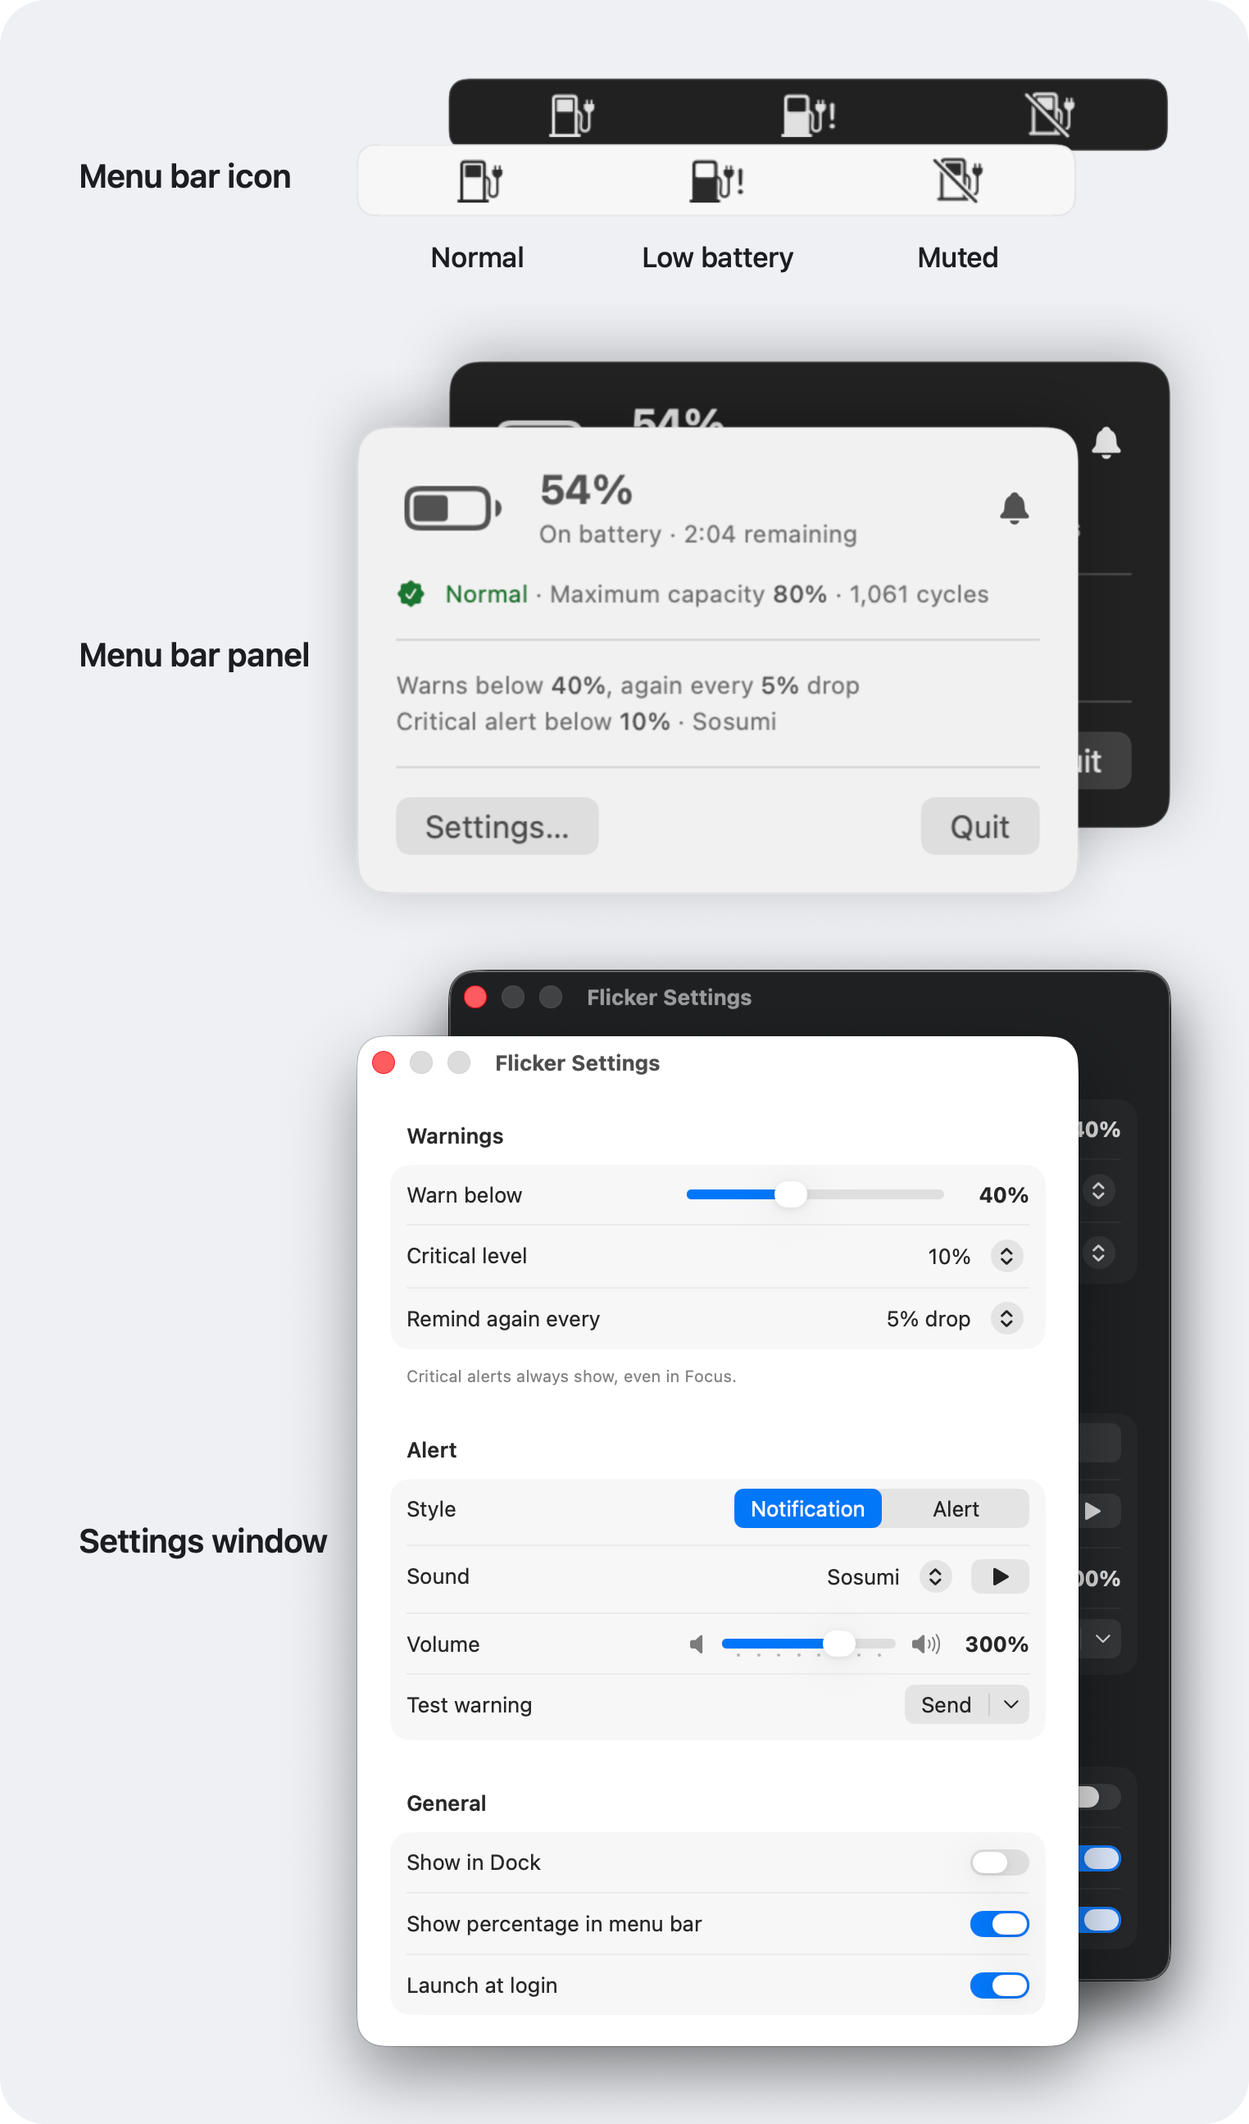
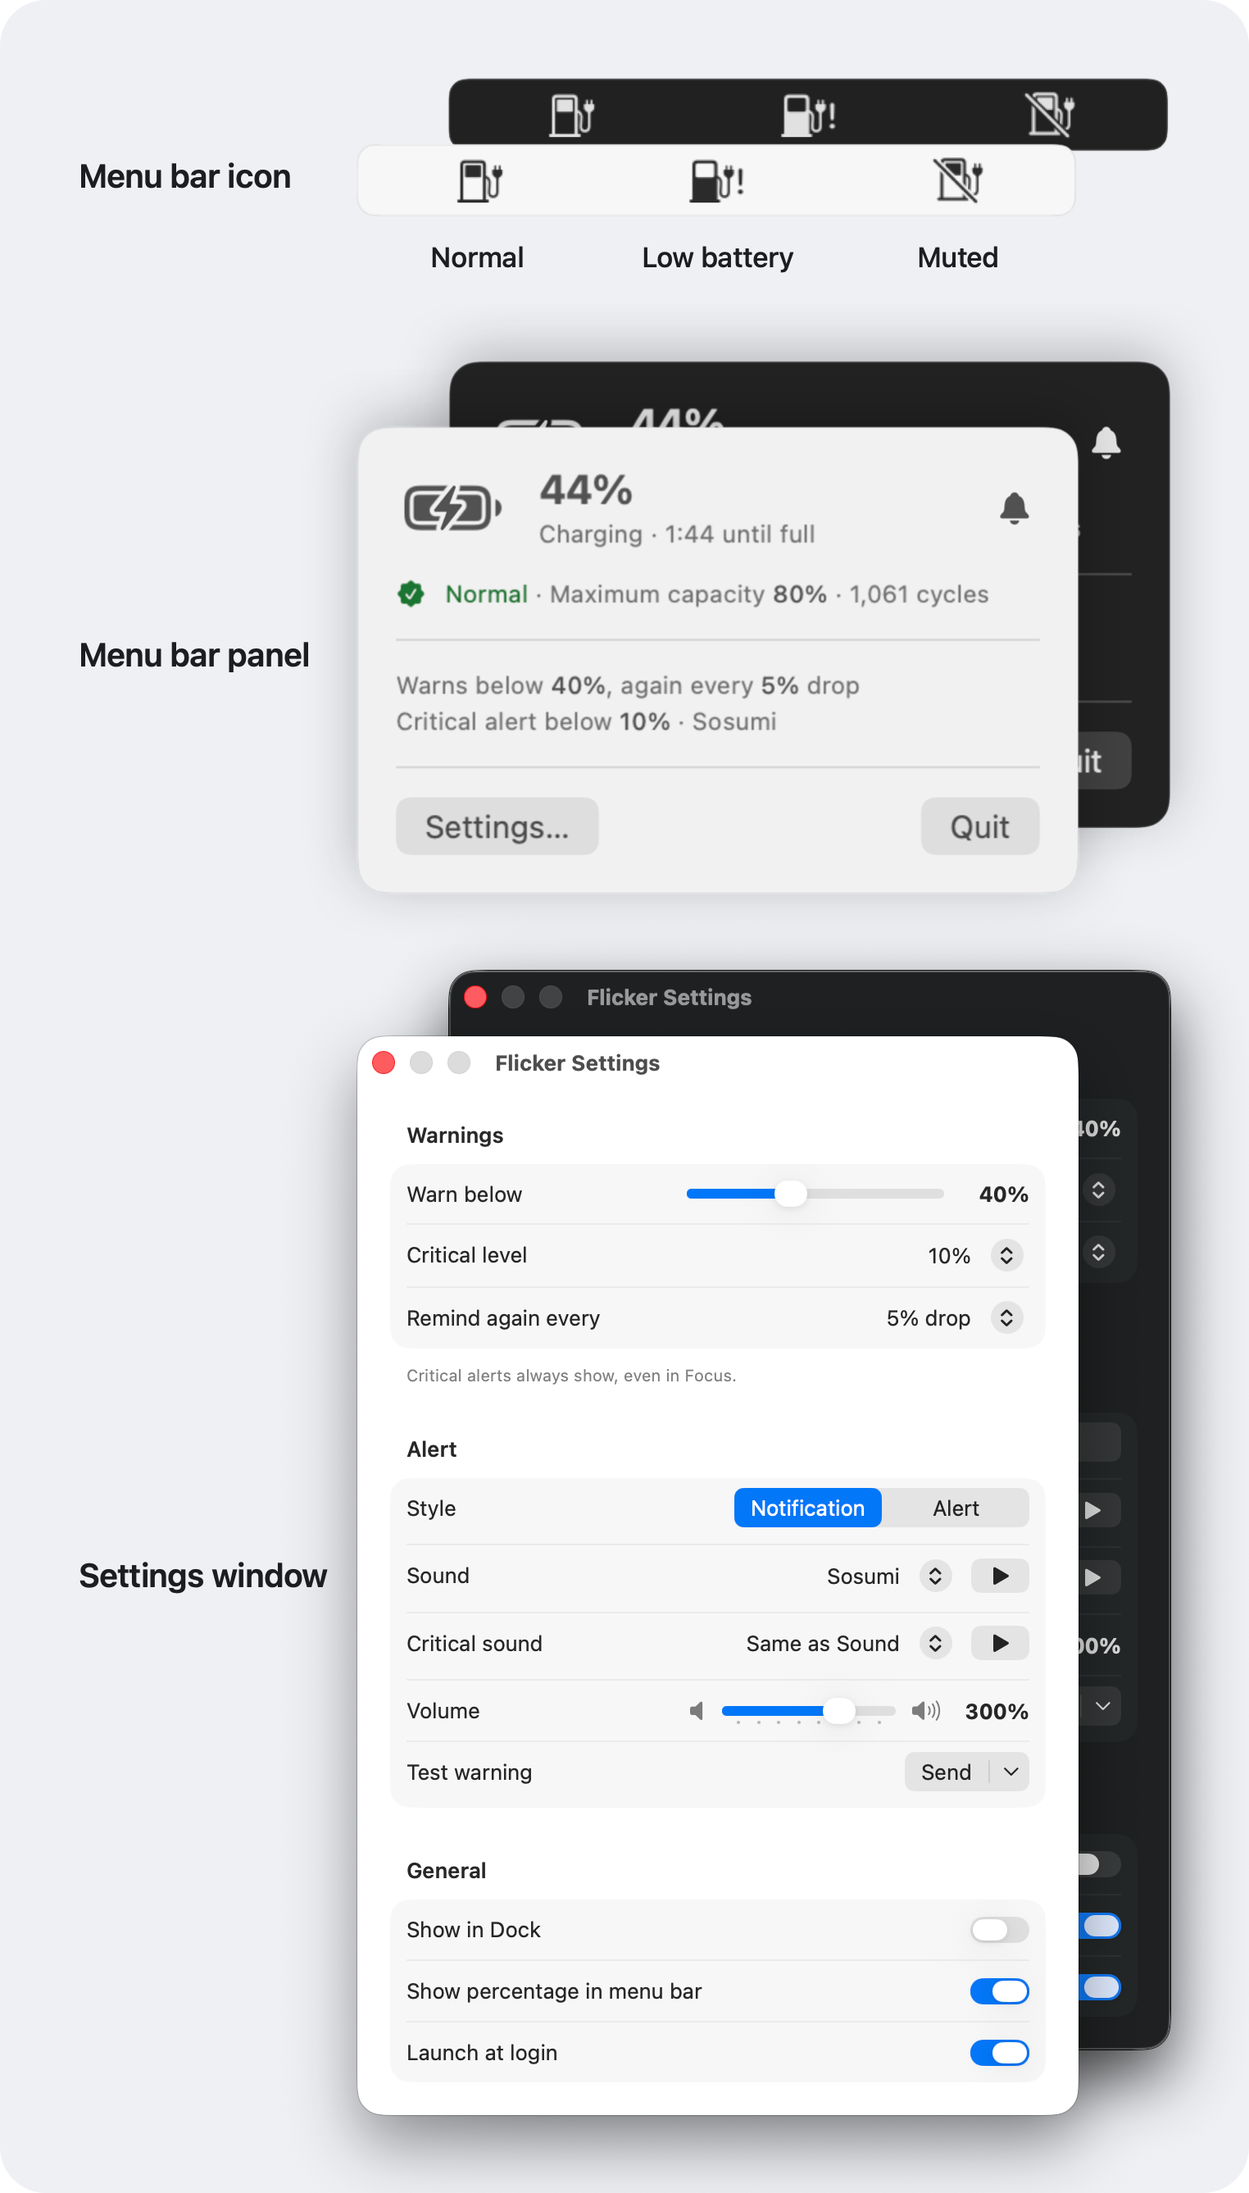
feat: add a critical sound and clear warnings on plug-in
Plugging in removes the banner and closes an open alert.

diff --git a/Sources/SettingsView.swift b/Sources/SettingsView.swift
@@ -10,6 +10,7 @@ struct SettingsView: View {
     @AppStorage(Settings.remindEveryKey) private var remindEvery = Settings.defaultRemindEvery
     @AppStorage(Settings.styleKey) private var style = Settings.defaultStyle
     @AppStorage(Settings.soundKey) private var sound = Settings.defaultSound
+    @AppStorage(Settings.criticalSoundKey) private var criticalSound = Settings.defaultCriticalSound
     @AppStorage(Settings.volumeKey) private var volume = Settings.defaultVolume
     @AppStorage(Settings.showPercentKey) private var showPercent = Settings.defaultShowPercent
     @AppStorage(Settings.showInDockKey) private var showInDock = Settings.defaultShowInDock
@@ -83,6 +84,26 @@ struct SettingsView: View {
                     }
                 }
 
+                LabeledContent("Critical sound") {
+                    HStack {
+                        Picker("Critical sound", selection: $criticalSound) {
+                            Text("Same as Sound").tag(Settings.sameSound)
+                            Text("None").tag("")
+                            ForEach(Notifier.availableSounds, id: \.self) { Text($0).tag($0) }
+                        }
+                        .labelsHidden()
+                        .fixedSize()
+                        Button {
+                            Notifier.playSound(name: resolvedCriticalSound, volume: volume)
+                        } label: {
+                            Image(systemName: "play.fill")
+                        }
+                        .help("Preview sound")
+                        .disabled(resolvedCriticalSound.isEmpty)
+                    }
+                }
+                .disabled(critical == 0 || critical >= threshold)
+
                 // Stored as an afplay multiplier of the speaker volume; shown as a percentage of it
                 LabeledContent("Volume") {
                     HStack {
@@ -94,7 +115,7 @@ struct SettingsView: View {
                     }
                 }
                 .help("Relative to your speaker volume: 100% plays at the speaker volume")
-                .disabled(sound.isEmpty)
+                .disabled(sound.isEmpty && resolvedCriticalSound.isEmpty)
 
                 LabeledContent("Test warning") {
                     Menu("Send") {
@@ -134,6 +155,9 @@ struct SettingsView: View {
             launchAtLogin = SMAppService.mainApp.status == .enabled
         }
     }
+
+    /// What a critical warning plays, with "Same as Sound" resolved.
+    private var resolvedCriticalSound: String { criticalSound == Settings.sameSound ? sound : criticalSound }
 
     private func setLaunchAtLogin(_ enabled: Bool) {
         do {

diff --git a/Sources/Settings.swift b/Sources/Settings.swift
@@ -7,6 +7,7 @@ enum Settings {
     static let remindEveryKey = "remindEvery"
     static let styleKey = "style"
     static let soundKey = "sound"
+    static let criticalSoundKey = "criticalSound"
     static let volumeKey = "volume"
     static let showPercentKey = "showPercent"
     static let showInDockKey = "showInDock"
@@ -17,6 +18,9 @@ enum Settings {
     static let defaultRemindEvery = 5
     static let defaultStyle = "notification"
     static let defaultSound = "Sosumi"
+    /// The critical sound's value for "use the Sound setting".
+    static let sameSound = "same"
+    static let defaultCriticalSound = sameSound
     static let defaultVolume = 3.0
     static let defaultShowPercent = true
     static let defaultShowInDock = false
@@ -30,6 +34,7 @@ enum Settings {
             remindEveryKey: defaultRemindEvery,
             styleKey: defaultStyle,
             soundKey: defaultSound,
+            criticalSoundKey: defaultCriticalSound,
             volumeKey: defaultVolume,
             showPercentKey: defaultShowPercent,
             showInDockKey: defaultShowInDock,
@@ -45,6 +50,11 @@ enum Settings {
     static var remindEvery: Int { UserDefaults.standard.integer(forKey: remindEveryKey) }
     static var style: String { UserDefaults.standard.string(forKey: styleKey) ?? defaultStyle }
     static var sound: String { UserDefaults.standard.string(forKey: soundKey) ?? "" }
+    /// The sound for critical warnings, with "same" resolved to the Sound setting.
+    static var criticalSound: String {
+        let value = UserDefaults.standard.string(forKey: criticalSoundKey) ?? defaultCriticalSound
+        return value == sameSound ? sound : value
+    }
     static var volume: Double { UserDefaults.standard.double(forKey: volumeKey) }
     static var showInDock: Bool { UserDefaults.standard.bool(forKey: showInDockKey) }
 }

diff --git a/Sources/Notifier.swift b/Sources/Notifier.swift
@@ -37,7 +37,7 @@ enum Notifier {
             message = time.map { "\(percent)% · about \($0) left" } ?? "\(percent)% left"
         }
 
-        playSound()
+        playSound(name: critical != nil ? Settings.criticalSound : Settings.sound)
 
         // Focus can hide a notification but not an alert, so a critical warning is always an alert
         if let critical {
@@ -54,6 +54,14 @@ enum Notifier {
         let hours = minutes / 60, rest = minutes % 60
         if hours == 0 { return "\(rest) min" }
         return rest == 0 ? "\(hours) hr" : "\(hours) hr \(rest) min"
+    }
+
+    /// Plugging in answers the warning, so the banner leaves Notification Center and an open
+    /// alert closes.
+    static func clearWarning() {
+        UNUserNotificationCenter.current().removeDeliveredNotifications(withIdentifiers: [warningIdentifier])
+        // The power source callback and timers run in common modes, so this lands inside runModal
+        if alertShowing { NSApp.abortModal() }
     }
 
     /// The Options menu on the banner, which offers the panel's mute choices.
@@ -106,7 +114,9 @@ enum Notifier {
         if !critical {
             alert.addButton(withTitle: "Mute 1 Hour")
         }
-        if alert.runModal() == .alertSecondButtonReturn {
+        let response = alert.runModal()
+        alert.window.orderOut(nil)
+        if response == .alertSecondButtonReturn {
             BatteryMonitor.shared.mute(for: 60 * 60)
         }
     }

diff --git a/Sources/PanelView.swift b/Sources/PanelView.swift
@@ -9,6 +9,7 @@ struct PanelView: View {
     @AppStorage(Settings.criticalKey) private var critical = Settings.defaultCritical
     @AppStorage(Settings.remindEveryKey) private var remindEvery = Settings.defaultRemindEvery
     @AppStorage(Settings.soundKey) private var sound = Settings.defaultSound
+    @AppStorage(Settings.criticalSoundKey) private var criticalSound = Settings.defaultCriticalSound
 
     var body: some View {
         VStack(alignment: .leading, spacing: 12) {
@@ -139,7 +140,14 @@ struct PanelView: View {
         let level = effectiveCritical > 0
             ? Text("Critical alert below ") + Text("\(effectiveCritical)%").bold().foregroundStyle(.primary)
             : Text("No critical level")
-        return level + Text(" · \(sound.isEmpty ? "No sound" : sound)")
+        let sounds = soundName(sound)
+            + (effectiveCritical > 0 && criticalSound != Settings.sameSound && criticalSound != sound
+                ? ", critical \(soundName(criticalSound))" : "")
+        return level + Text(" · \(sounds)")
+    }
+
+    private func soundName(_ name: String) -> String {
+        name.isEmpty ? "No sound" : name
     }
 
     /// Matches Settings.critical: a level at or above the threshold can't apply.

diff --git a/Sources/BatteryMonitor.swift b/Sources/BatteryMonitor.swift
@@ -169,10 +169,13 @@ final class BatteryMonitor: ObservableObject {
     private func readBattery() {
         let wasOnBattery = onBattery
         defer {
-            if wasOnBattery && !onBattery && isMuted {
-                muteTimer?.invalidate()
-                muteTimer = nil
-                mutedUntil = nil
+            if wasOnBattery && !onBattery {
+                Notifier.clearWarning()
+                if isMuted {
+                    muteTimer?.invalidate()
+                    muteTimer = nil
+                    mutedUntil = nil
+                }
             }
         }
 

diff --git a/AGENTS.md b/AGENTS.md
@@ -20,7 +20,7 @@ A macOS 14+ menu bar app (SwiftUI `MenuBarExtra`, no Dock icon by default via `L
 - `FlickerApp.swift`: `@main` app plus `AppDelegate`. The delegate enforces a single instance, registers defaults, requests notification permission, turns on launch at login the first time (`SMAppService`, guarded by `didSetupLoginItem`), and starts the monitor. `MenuBarLabel` draws the menu bar icon. Both it and `DockIcon` have their own files, so the screenshot renderer can compile them without the app's entry point. `DockIcon` handles the optional Dock icon: it switches the activation policy, and on a Dock click (`applicationShouldHandleReopen`) opens the panel by clicking the app's own status item, found through the private `NSStatusBarWindow` class name, falling back to the app menu's Settings… item. If that private lookup ever breaks, the agreed fallback is to have Dock clicks just open Settings.
 - `BatteryMonitor` (`@MainActor` singleton, `ObservableObject`): reads the internal battery through IOKit (`IOPSCopyPowerSourcesInfo`) and holds all the warning logic. Updates arrive from an `IOPSNotificationCreateRunLoopSource` callback plus a 60 s `Timer`. Both are added in **common run loop modes** so they keep firing while a modal `NSAlert` or the menu is open. The C callback gets back to the instance with `Unmanaged` and `MainActor.assumeIsolated`. The health rating, maximum capacity and cycle count (`BatteryDetails`) come from `system_profiler SPPowerDataType -json` on a detached task, read at launch and when the panel opens. Don't switch them to IOKit: its mAh figures and its health rating don't match System Settings. Missing time estimates (IOKit reports -1 for about two minutes after a power change) fall back to `AppleSmartBattery`'s `TimeRemaining` (65535 means none), re-read every 10 s until one exists. The JSON's `Good` is shown as "Normal", as System Settings does. Only the rating is colored (green Normal, red otherwise), never the capacity, so nothing can contradict macOS; light mode uses a darker green, since system green is too pale for small text there.
 - Warning logic in `evaluate()`: warn only when on battery and below threshold. `lastWarned` stores the percentage at the last warning. A reminder fires after each further `remindEvery` drop (`0` means warn once). Dropping below the critical level always warns, whatever the reminder state. While muted (`mutedUntil`, `.distantFuture` meaning until plugged in), non-critical warnings return before `lastWarned` is set, so the held-back warning fires when `unmute()` re-evaluates. Plugging in ends a mute, and the mute is in memory only. `Settings.critical` reads as 0 unless it's below the threshold, and `SettingsView` clamps it when the threshold moves. Being on the adapter, or at or above the threshold (for example after lowering it while on battery), resets `lastWarned` to nil. If no battery is found, every published field is cleared. `statusText` only says "Not charging" once that has lasted `notChargingDelay`, because IOKit reports adapter-connected-but-not-charging for a moment on every plug and unplug.
-- `Notifier`: plays the sound itself through `/usr/bin/afplay`, so volume follows the output volume and can be boosted. It then shows either an `NSAlert` (guarded by `alertShowing`, since `runModal` blocks; always used for critical warnings, since Focus can't hide it) or a `UNUserNotification` with the fixed identifier `low-battery`, so each reminder replaces the last banner. The banner's Options menu (a notification category) offers the mute choices, handled in `AppDelegate`'s `didReceive`. The alert carries a `LevelBar` accessory view and, except for critical warnings (which a mute can't hold back), a *Mute 1 Hour* button. If notification permission is missing, it falls back to `osascript`.
+- `Notifier`: plays the sound itself through `/usr/bin/afplay`, so volume follows the output volume and can be boosted. It then shows either an `NSAlert` (guarded by `alertShowing`, since `runModal` blocks; always used for critical warnings, since Focus can't hide it) or a `UNUserNotification` with the fixed identifier `low-battery`, so each reminder replaces the last banner. The banner's Options menu (a notification category) offers the mute choices, handled in `AppDelegate`'s `didReceive`. The alert carries a `LevelBar` accessory view and, except for critical warnings (which a mute can't hold back), a *Mute 1 Hour* button. Critical warnings play `Settings.criticalSound` (`"same"` means the Sound setting). Plugging in calls `clearWarning()`, which removes the delivered banner and ends an open alert with `abortModal`. If notification permission is missing, it falls back to `osascript`.
 - `PanelView` is the menu bar panel: status, health line, a summary of the warning settings, and the mute menu. Menu labels render as template images that drop SwiftUI colors, so the orange muted bell is a non-template `NSImage`.
 - `SettingsView` is the window of a SwiftUI `Settings` scene, written `SwiftUI.Settings` because our `Settings` enum shadows it. The panel's Settings… button activates the app first (a menu bar app's window otherwise opens behind others), calls `openSettings`, and closes the panel. It keeps the window's saved position when that's on the clicked menu bar's screen, and otherwise centers it there. Settings apply immediately, with no Done button, as Apple's guidelines expect.
 - `Settings`: the `UserDefaults` keys and defaults. `SettingsView` binds to the same keys with `@AppStorage`, and the monitor reads them through `Settings.*`. Add any new setting in both places. `SettingsView` calls `monitor.refresh()` when a warning setting changes (the threshold slider only on release), and the 60 s timer catches anything else, such as `defaults write`.

diff --git a/README.md b/README.md
@@ -6,7 +6,7 @@ macOS only warns when the battery is nearly empty, at a level you can't change, 
 
 <picture>
   <source media="(prefers-color-scheme: dark)" srcset="docs/images/screenshots-dark.png">
-  <img src="docs/images/screenshots-light.png" alt="Flicker's menu bar icon (normal, low battery with an exclamation mark, muted crossed out), the menu bar panel (54% on battery with 2:04 remaining, battery health Normal, maximum capacity 80%, 1,061 cycles, a summary of the warning settings, and Settings and Quit buttons) and the Settings window (Warnings: warn below 40%, critical level 10%, remind every 5% drop; Alert: notification style, Sosumi sound, 300% volume, test warning; General: show in Dock, percentage in menu bar, launch at login), each with its other appearance behind it">
+  <img src="docs/images/screenshots-light.png" alt="Flicker's menu bar icon (normal, low battery with an exclamation mark, muted crossed out), the menu bar panel (44% and charging, 1:44 until full, battery health Normal, maximum capacity 80%, 1,061 cycles, a summary of the warning settings, and Settings and Quit buttons) and the Settings window (Warnings: warn below 40%, critical level 10%, remind every 5% drop; Alert: notification style, Sosumi sound, critical sound same as Sound, 300% volume, test warning; General: show in Dock, percentage in menu bar, launch at login), each with its other appearance behind it">
 </picture>
 
 ## Features
@@ -44,8 +44,9 @@ Click the charging station icon in the menu bar to open the panel. It shows the 
 | Warn below | 40% | 5–95% | Warns when on battery and below this level |
 | Critical level | 10% | Off, 5, 10, 15, 20% | Below this, always warns with an alert |
 | Remind again every | 5% drop | Never, 1, 2, 5, 10% drop | Warns again after each further drop (Never warns once) |
-| Style | Notification | Notification, Alert | A banner, or a dialog that stays until you click OK |
+| Style | Notification | Notification, Alert | A banner, or a dialog that stays until you click OK or plug in |
 | Sound | Sosumi | Any system sound, None | Played with every warning |
+| Critical sound | Same as Sound | Same as Sound, any system sound, None | Played instead below the critical level |
 | Volume | 300% | 50–400% | How loud the sound plays (see below) |
 | Show in Dock | Off | On, Off | Also shows the app in the Dock and the ⌘Tab app switcher. Clicking the Dock icon opens the panel |
 | Show percentage in menu bar | On | On, Off | Shows the level next to the charging station |

diff --git a/docs/HOW-IT-WORKS.md b/docs/HOW-IT-WORKS.md
@@ -34,6 +34,7 @@ flicker/
 - **It remembers one number between warnings**: the percentage at the last warning. A reminder is due once the battery has dropped another *Remind again every* below that number. With reminders set to Never, it warns once.
 - **The critical level breaks through.** Any warning while the battery is below the critical level is a critical alert, including the first one when you unplug or start the app already below it. Dropping into the critical level also always warns, even if no reminder is due or reminders are off.
 - **Mute holds warnings back without losing them.** While muted, a non-critical warning is skipped before the remembered percentage is updated. When the mute ends, the app re-evaluates straight away, so a warning that came due meanwhile fires then. A mute ends when its timer runs out, when you click Unmute, or when you plug in, and it's kept in memory only, so quitting the app clears it.
+- **Plugging in clears the warning.** The banner is removed from Notification Center and an open alert closes, since the warning has been answered.
 - **One alert at a time.** An alert waits for you to click OK. A warning that arrives while one is open still plays its sound, but its dialog is dropped rather than shown afterwards, so dialogs never stack.
 
 Test warnings from Settings ignore all of this and always fire.
